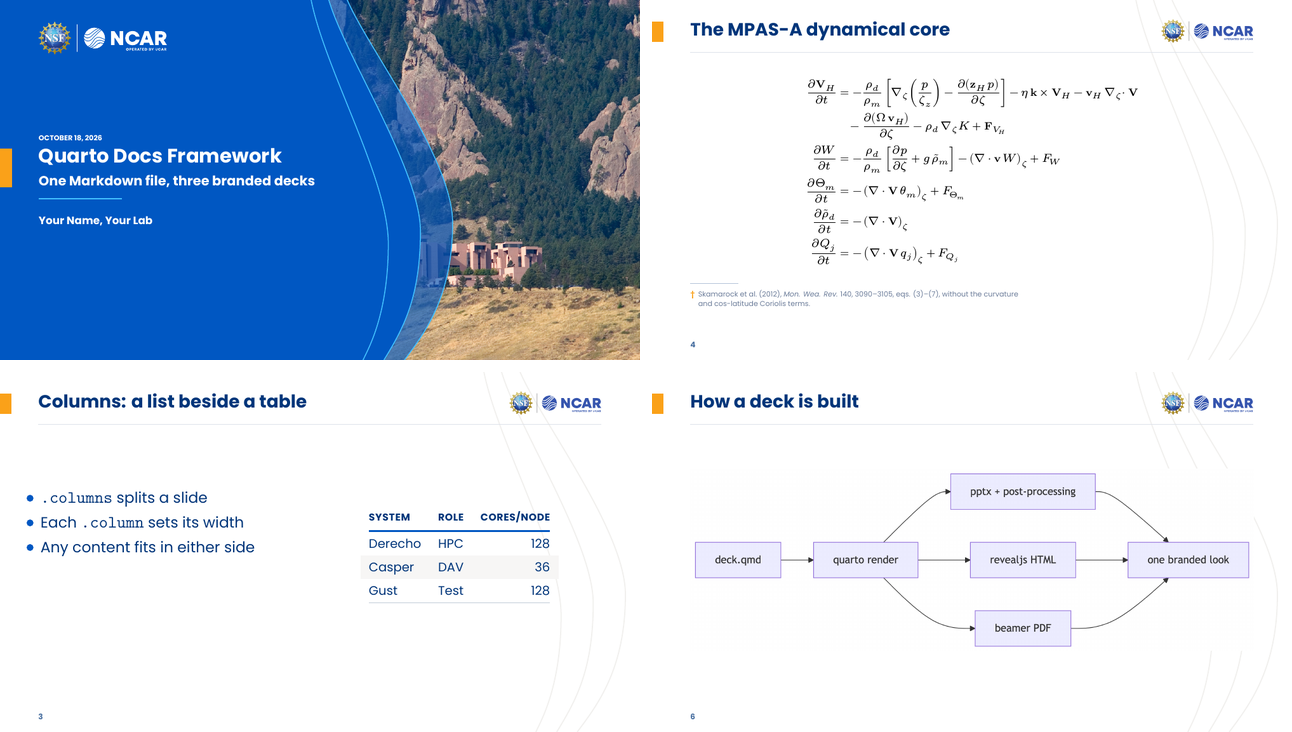
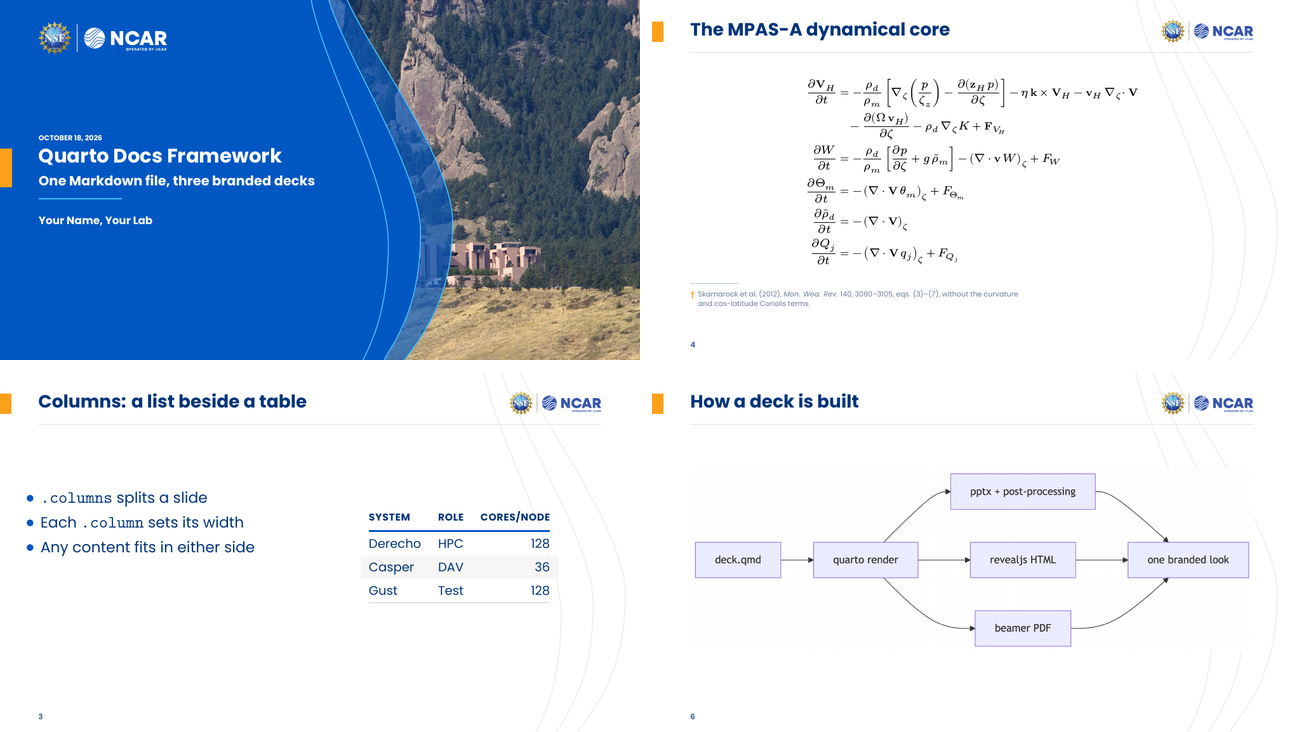
Each livery's own cover photo: ncar's Mesa Lab default (engine), titlegraphic: none
The quickstart sets no titlegraphic again, so every livery shows its own default cover photo
(ncar's Mesa Lab, now the engine's ncar default; nsi's campus; nasa's Earth limb) and the
gallery keeps each livery in its own lane. `titlegraphic: none` keeps the plain cover:
slide_layout.py honours it in pptx, the engine's filters in HTML and PDF, and comp_measure.py
measures it as the plain composition. docs/fixtures/light.qmd opts out, so the plain light
cover stays in CI and parity. README images reshot; the vendored engine is the engine's
readme-pass branch.

Claude-Session: https://claude.ai/code/session_01QxTZPtUJESWqMyXE15JCRv

Changed region(s): [[0.2786, 0.0, 0.4954, 0.4809]]

diff --git a/docs/common/_extensions/benkirk/engine/liveries/ncarucar/build/livery.css b/docs/common/_extensions/benkirk/engine/liveries/ncarucar/build/livery.css
@@ -82,6 +82,7 @@ html:root {
 .reveal .slides section.engine-title::after { background-image: url("NSF-NCAR-UCAR_Logo_FullColor_RGB.png"); }
 .reveal .slides section.slide.engine-field::after,
 .reveal .slides section.engine-title.engine-field::after { background-image: url("NSF-NCAR-UCAR_Logo_Color-White_RGB.png"); }
+.reveal .slides section.engine-title .engine-title-photo-default { background: url("mesa-lab.jpg") center / cover no-repeat; }
 /* compositions (livery_build.py compositions()): boxes in slide px, roles as vars */
 div.reveal div.slides section.engine-title.quarto-title-block {
   --engine-cmp-field-display: block;

diff --git a/docs/common/_extensions/benkirk/engine/liveries/ncar/build/livery.css b/docs/common/_extensions/benkirk/engine/liveries/ncar/build/livery.css
@@ -82,6 +82,7 @@ html:root {
 .reveal .slides section.engine-title::after { background-image: url("NSF-NCAR_Logo_FullColor_RGB.png"); }
 .reveal .slides section.slide.engine-field::after,
 .reveal .slides section.engine-title.engine-field::after { background-image: url("NSF-NCAR_Logo_Color-White_RGB.png"); }
+.reveal .slides section.engine-title .engine-title-photo-default { background: url("mesa-lab.jpg") center / cover no-repeat; }
 /* compositions (livery_build.py compositions()): boxes in slide px, roles as vars */
 div.reveal div.slides section.engine-title.quarto-title-block {
   --engine-cmp-field-display: block;

diff --git a/docs/common/_extensions/benkirk/engine/liveries/ucar/build/livery.css b/docs/common/_extensions/benkirk/engine/liveries/ucar/build/livery.css
@@ -82,6 +82,7 @@ html:root {
 .reveal .slides section.engine-title::after { background-image: url("UCAR-Logo_Color_RGB.png"); }
 .reveal .slides section.slide.engine-field::after,
 .reveal .slides section.engine-title.engine-field::after { background-image: url("UCAR-Logo_White_RGB.png"); }
+.reveal .slides section.engine-title .engine-title-photo-default { background: url("mesa-lab.jpg") center / cover no-repeat; }
 /* compositions (livery_build.py compositions()): boxes in slide px, roles as vars */
 div.reveal div.slides section.engine-title.quarto-title-block {
   --engine-cmp-field-display: block;

diff --git a/docs/common/_extensions/benkirk/engine/liveries/ucp/build/livery.css b/docs/common/_extensions/benkirk/engine/liveries/ucp/build/livery.css
@@ -82,6 +82,7 @@ html:root {
 .reveal .slides section.engine-title::after { background-image: url("UCP-Logo_Color_RGB.png"); }
 .reveal .slides section.slide.engine-field::after,
 .reveal .slides section.engine-title.engine-field::after { background-image: url("UCP-Logo_White_RGB.png"); }
+.reveal .slides section.engine-title .engine-title-photo-default { background: url("mesa-lab.jpg") center / cover no-repeat; }
 /* compositions (livery_build.py compositions()): boxes in slide px, roles as vars */
 div.reveal div.slides section.engine-title.quarto-title-block {
   --engine-cmp-field-display: block;

diff --git a/docs/common/utils/comp_measure.py b/docs/common/utils/comp_measure.py
@@ -69,12 +69,13 @@ def headings(deck):
 
 def composition_names(fm, L):
     """kind -> composition, as the drawers pick: a band wins over light; a photo is the deck's
-    titlegraphic or the livery's art.titlegraphic."""
+    titlegraphic or the livery's art.titlegraphic (unless titlegraphic: none)."""
     opts = fm.get("themeoptions") or []
     opts = opts if isinstance(opts, list) else str(opts).split(",")
     light = any(str(o).strip() == "title=light" for o in opts)
     band = (L.get("title") or {}).get("style") == "band"
-    photo = bool(fm.get("titlegraphic")) or isinstance((L.get("art") or {}).get("titlegraphic"), str)
+    tg = fm.get("titlegraphic")   # `titlegraphic: none` asks for the plain cover over the livery's default
+    photo = (bool(tg) and tg != "none") or (not tg and isinstance((L.get("art") or {}).get("titlegraphic"), str))
     title = "title-band" if band else ("title-photo" if photo else "title") + ("-light" if light else "")
     closing = "closing-band" if band else "closing-light" if light else "closing"
     return {"title": title, "section": "section", "closing": closing, "feature": "feature"}

diff --git a/docs/common/utils/slide_layout.py b/docs/common/utils/slide_layout.py
@@ -253,9 +253,10 @@ def _custom_prop(prs, name):
 
 
 def _title_graphic(prs, deck_dir):
-    """The deck's `titlegraphic:` path from docProps/custom.xml, or None."""
+    """The deck's `titlegraphic:` path from docProps/custom.xml, None without one, or "none"
+    when the deck asks for the plain cover (`titlegraphic: none`)."""
     value = _custom_prop(prs, "titlegraphic")
-    return deck_dir / value if value else None
+    return "none" if value == "none" else deck_dir / value if value else None
 
 
 def use_layout(prs, slide, name):
@@ -531,6 +532,8 @@ def main() -> int:
     default = LIVERY.get("art", {}).get("titlegraphic")
     if graphic is None and default and not BAND:   # the band's layout carries the default itself
         graphic = Path(LIVERY["dir"]) / default
+    if graphic == "none":   # the plain cover, not the livery's default photo
+        graphic = None
     if graphic is not None and len(prs.slides) and prs.slides[0].slide_layout.name.startswith("Title Slide"):
         if graphic.exists():
             (band_photo if BAND else title_cover)(prs.slides[0], w, h, graphic.read_bytes())

diff --git a/README.md b/README.md
@@ -68,7 +68,7 @@ livery:
 
 | Slide | The Markdown behind it |
 |---|---|
-| [Title](docs/quickstart/screenshots/01-title.png) | the front matter: `title`, `subtitle`, `author`, `date`, and `titlegraphic:` for the cover photo |
+| [Title](docs/quickstart/screenshots/01-title.png) | the front matter: `title`, `subtitle`, `author`, `date`; the photo is the livery's default, `titlegraphic:` sets your own |
 | [Section divider](docs/quickstart/screenshots/02-divider.png) | `# Write Markdown`, then a paragraph: the subtitle |
 | [Bullets and a footnote](docs/quickstart/screenshots/03-text.png) | a list, then a paragraph starting with `†`; `{.vcenter scale="1.2"}` on the heading |
 | [Columns](docs/quickstart/screenshots/04-columns.png) | `:::: {.columns}` with a list in one `.column` and a table in the other |
@@ -99,7 +99,7 @@ livery can be a *flavor* of another (`extends:`), naming only what differs.
 
 | Family | Liveries | Faces | Marks | Look |
 |---|---|---|---|---|
-| **NCAR** | `ncar` (NSF NCAR, the default); the engine's reference liveries `ucar`, `ucp` and `ncarucar` | Poppins, bundled, embedded in the pptx | each member's lockup top right | the 2026 brand palette; deep-blue fields and the wave super-graphic |
+| **NCAR** | `ncar` (NSF NCAR, the default); the engine's reference liveries `ucar`, `ucp` and `ncarucar` | Poppins, bundled, embedded in the pptx | each member's lockup top right | the 2026 brand palette; deep-blue fields and the wave super-graphic; the Mesa Lab on the cover |
 | **University of Colorado** | `cu` (CU Boulder); `nsi`, the Center for National Security Initiatives (`extends: cu`) | Helvetica Neue where installed; TeX Gyre Heros, Condensed for headings, standing in | `cu`: the CU Boulder lockup as a sign-off, bottom left; `nsi`: the center's mark top left, the Research & Innovation Office lockup as its sign-off | gold fields, a faded Flatirons photo behind content; `nsi`: its master deck's band title, a satellite photo behind content, centred titles |
 | **NASA** | `nasa` (external communication, on white); `nasa-dark` (`extends: nasa`, on black); program liveries belong here too | NASA's digital faces, bundled: Inter headings, Public Sans body, DM Mono code | the insignia top right and the agency name at the foot, the brand's preferred identifier | NASA Blue fields with the white-rule insignia; `nasa-dark`: content on black over a faint deep field, cover and closing on black |
 
@@ -367,8 +367,9 @@ which is vendored in `docs/common/_extensions/benkirk/engine/`. Make symlinks
   system copy (`fonts=brand` uses an installed brand face instead; see
   "Installed brand fonts").
   - `titlegraphic: images/photo.jpg` puts a photo on the title slide, in every
-    format, where the livery's title composition places it. A livery may set a
-    default (`art.titlegraphic`: nasa's Earth limb, nsi's campus photo).
+    format, where the livery's title composition places it. Without one the livery's
+    default appears (`art.titlegraphic`: ncar's Mesa Lab, nsi's campus, nasa's Earth
+    limb); `titlegraphic: none` keeps the plain cover.
   - `fineprint: "..."` adds small print under the title block.
   - `mathfont=stix` (or `lm`, `pagella`, `sans`, `fira`, `poppins`, any
     OpenType math font) changes the math font; the default is New Computer
@@ -794,7 +795,8 @@ license:
 
 - **The NSF, NCAR, UCAR and UCP logos and brand marks** (`docs/common/liveries/ncar/` and
   the vendored theme) are trademarks used under the
-  [UCAR brand guidelines](https://ucar.canto.com/v/branding).
+  [UCAR brand guidelines](https://ucar.canto.com/v/branding); the NCAR family's cover photo
+  of the Mesa Lab is NCAR's.
 - **The CU Boulder lockups, the NSI and Research & Innovation Office lockups, and the
   photographs** of the `cu` and `nsi` liveries are the University of Colorado's and its
   units', reproduced here as the livery's reference assets; see each livery's
@@ -803,8 +805,6 @@ license:
   public domain and its use is restricted by the
   [NASA brand guidelines](https://www.nasa.gov/nasa-brand-center/brand-guidelines/). The
   `nasa` liveries' photographs are NASA's (images.nasa.gov); see their `reference/notes.md`.
-- **The Mesa Lab photograph** (`docs/quickstart/images/mesa_lab.jpg`, the quickstart's cover) is
-  NCAR's, from the NCAR beamer template's example imagery.
 - **The Poppins font** (`docs/common/liveries/ncar/fonts/` and the vendored theme)
   is licensed under the [SIL Open Font License](https://openfontlicense.org); **TeX Gyre
   Heros** (`docs/common/liveries/cu/fonts/`) under the GUST Font License; **Inter, Public

diff --git a/CLAUDE.md b/CLAUDE.md
@@ -189,6 +189,11 @@ and the image's smoke test a bare directory with no Makefile at all (`make -f
 - **Code face**: `typography.monospace` (brand.yml) with files of its own replaces LM Mono in
   beamer (at 1.0: a mono advancing 0.6 em is HTML's width), `--r-code-font` in HTML and
   pandoc's `monofont` in pptx (nasa: DM Mono). The other liveries keep the defaults.
+- **Title photo**: a deck's `titlegraphic:`, else the livery's `art.titlegraphic` (ncar: the
+  Mesa Lab, inherited by its family; nsi: the campus; nasa: the Earth limb); `titlegraphic:
+  none` keeps the plain cover (both engine filters and `slide_layout.py`; beamer
+  `\enginenotitlegraphic`). `docs/fixtures/light.qmd` opts out, so the plain light cover stays
+  in CI and parity. The quickstart sets none, so the gallery shows each livery's own.
 - **Marks and numbers** are livery parameters (`signoff`, `geometry.logo.corner`,
   `geometry.pagenumber.corner`; defaults are NCAR's layout) that the three themes
   and `livery_template.py` all honor. Which mark and sign-off a field wears goes by
